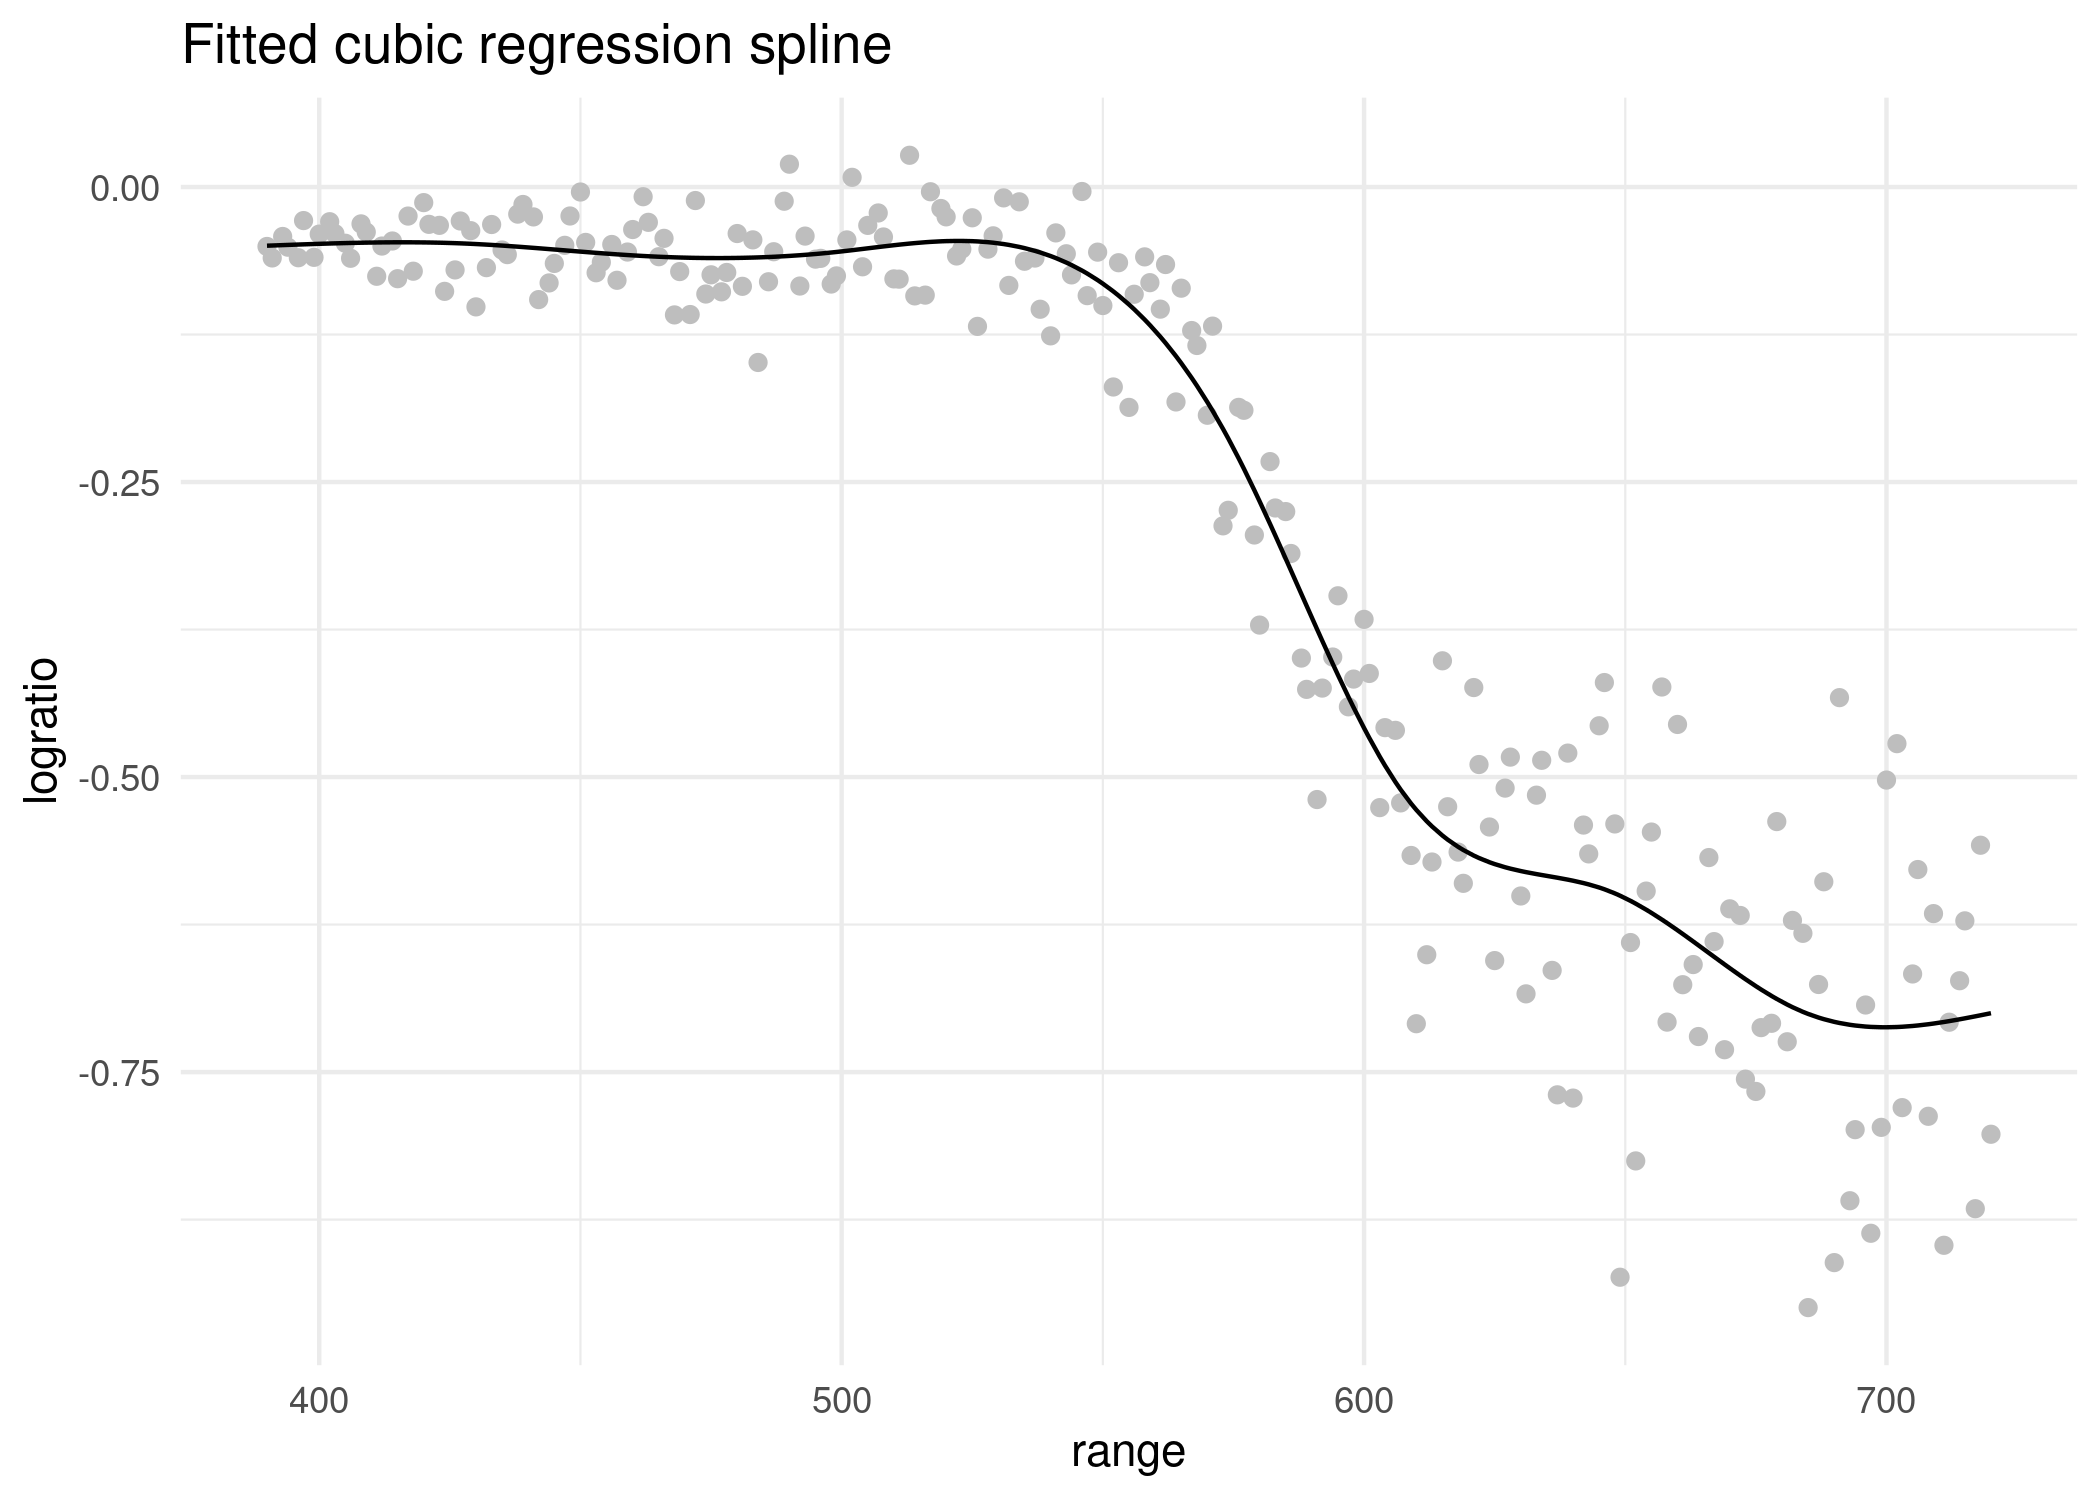
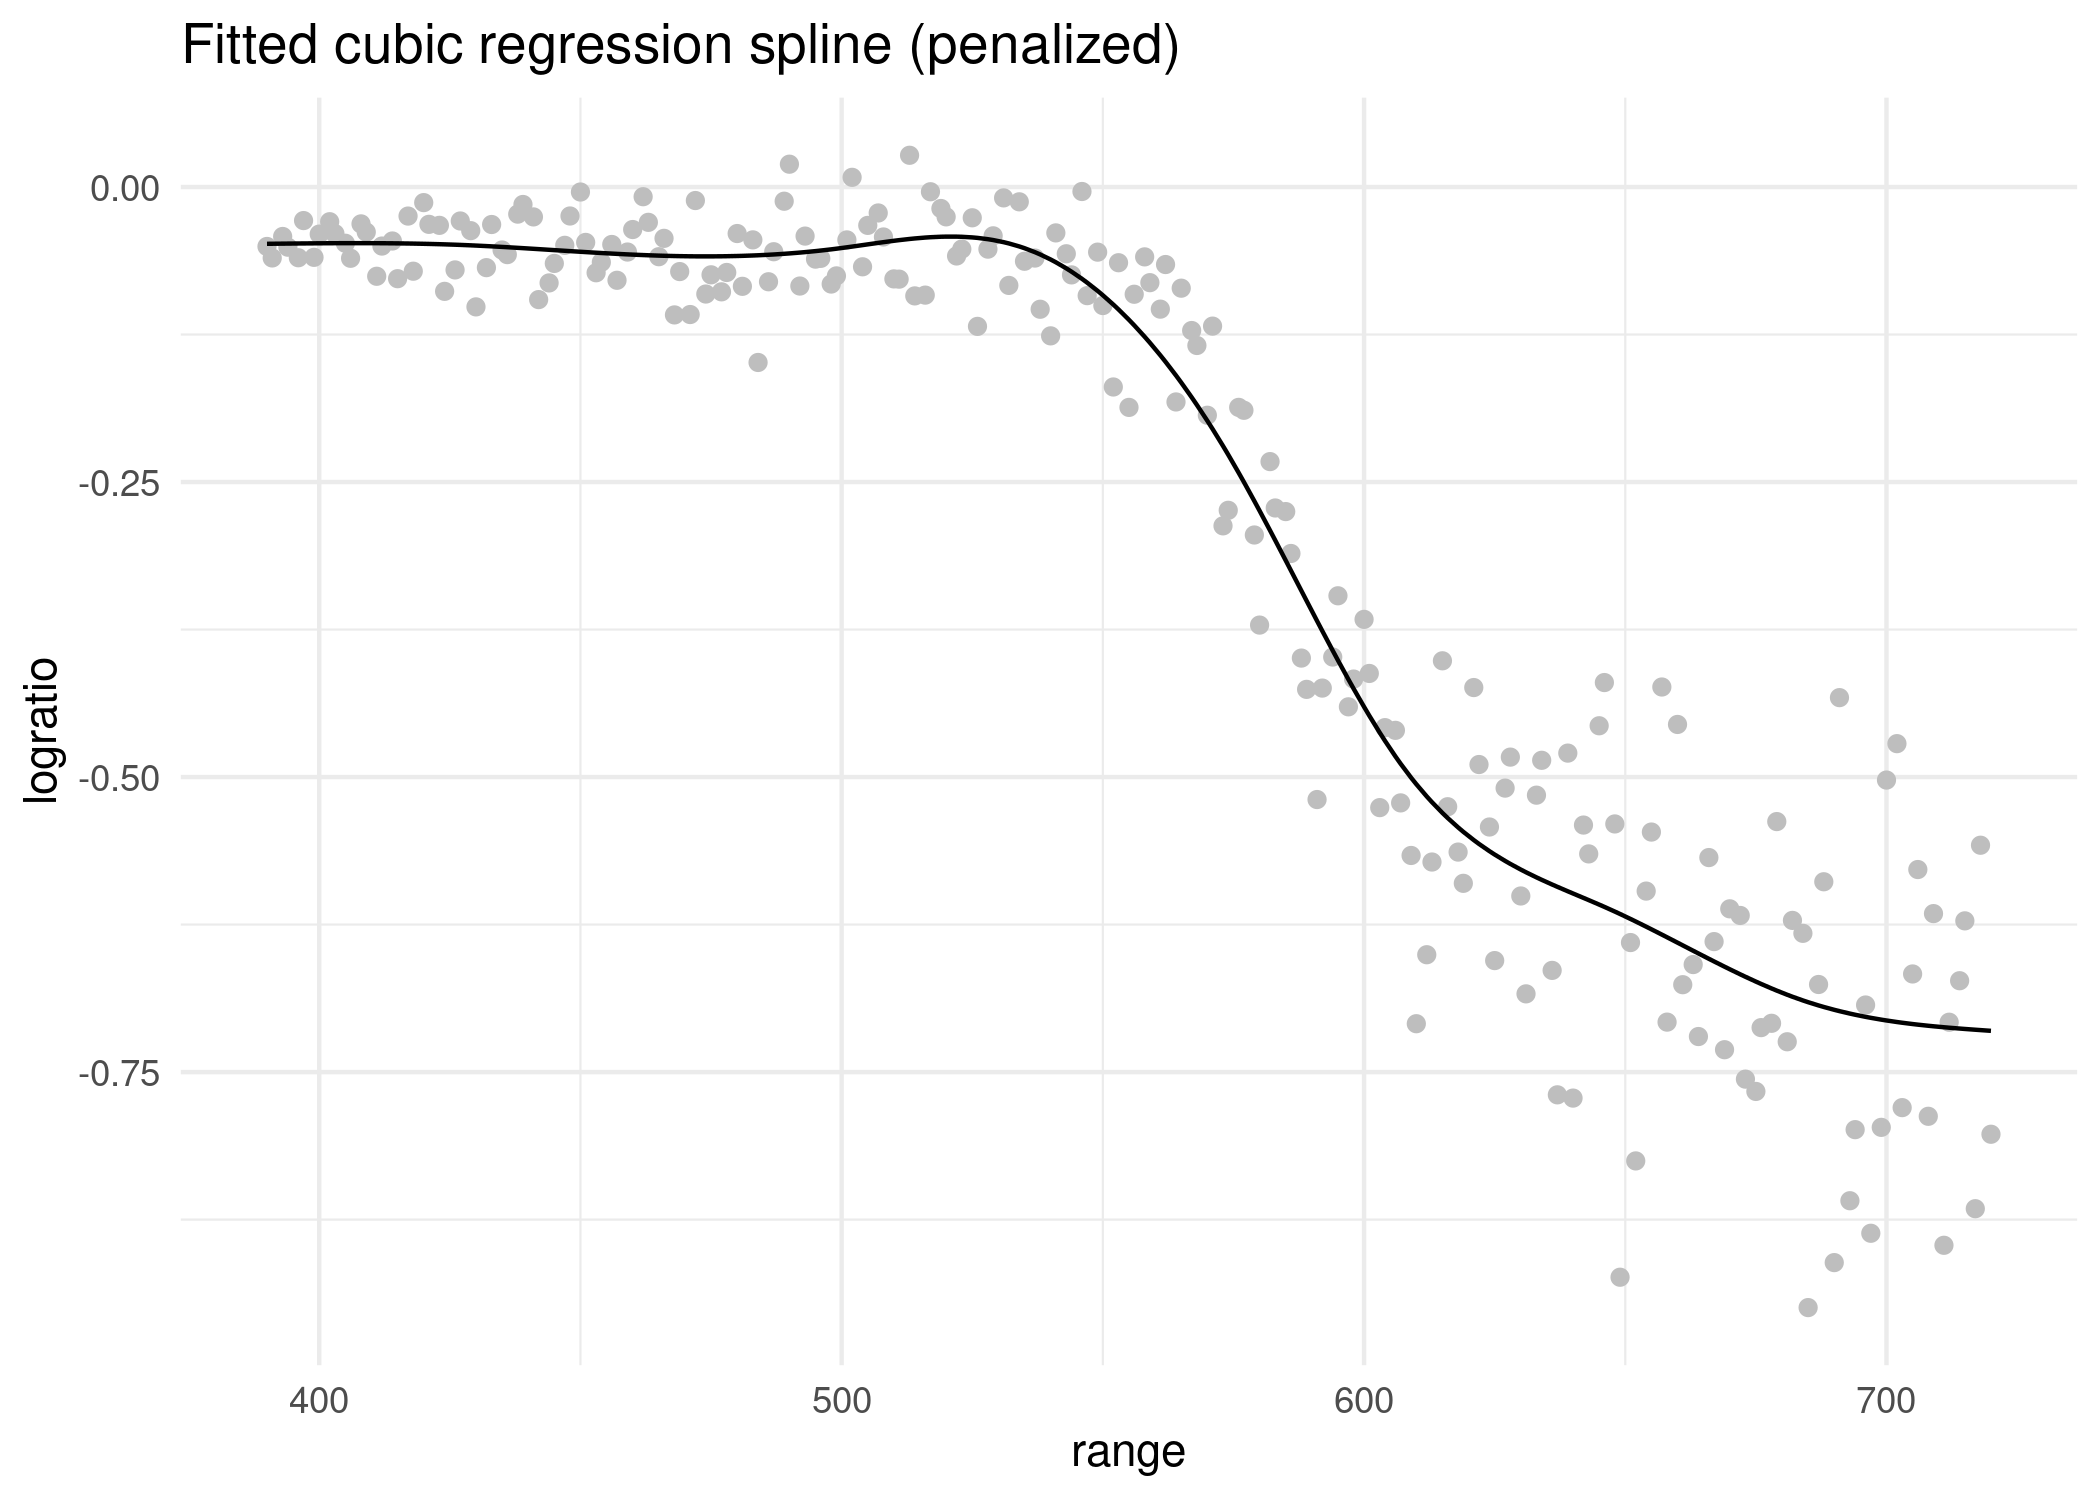
Fix loss function

diff --git a/README.md b/README.md
@@ -174,7 +174,7 @@ and fit it with the `optim()` function from R:
 nbeta <- ncol(mat$design_matrix)
 param <- c(0, rep(0, nbeta), 0, 0)
 
-loss <- function(param, y, X, K) {
+loss <- function(param, y, X, K, rk) {
   nbeta <- ncol(X)
 
   beta0 <- param[1]
@@ -185,7 +185,7 @@ loss <- function(param, y, X, K) {
   mu <- beta0 + drop(X %*% beta)
 
   loglik <- sum(dnorm(y, mu, sigma, log = TRUE))
-  penalty <- lambda * drop(beta %*% K %*% beta)
+  penalty <- lambda * drop(beta %*% K %*% beta) - rk / 2 * log(lambda)
 
   -loglik + penalty
 }
@@ -196,6 +196,7 @@ opt <- optim(
   y = lidar$logratio,
   X = mat$design_matrix,
   K = mat$penalty_matrices[[1]],
+  rk = mat$ranks[[1]],
   method = "BFGS"
 )
 ```
@@ -214,8 +215,25 @@ mu <- beta0 + drop(mat$design_matrix %*% beta)
 ggplot(lidar, aes(range, logratio)) +
   geom_point(color = "gray") +
   geom_line(y = mu) +
-  ggtitle("Fitted cubic regression spline") +
+  ggtitle("Fitted cubic regression spline (penalized)") +
   theme_minimal()
 ```
 
 <img src="man/figures/README-lidar-fit-1.png" width="100%" />
+
+For comparison, the red line shows how the unpenalized smooth would look
+like:
+
+``` r
+mod <- lm(lidar$logratio ~ mat$design_matrix)
+mu2 <- fitted(mod)
+
+ggplot(lidar, aes(range, logratio)) +
+  geom_point(color = "gray") +
+  geom_line(y = mu) +
+  geom_line(y = mu2, color = "red") +
+  ggtitle("Fitted cubic regression spline (penalized and unpenalized)") +
+  theme_minimal()
+```
+
+<img src="man/figures/README-lidar-lm-1.png" width="100%" />
